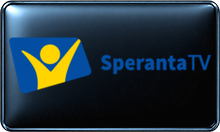
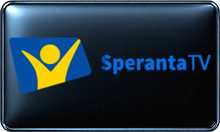
Repair six more BLACK/WHITE contrast variants

Changed region(s): [[0.4636, 0.3939, 0.9545, 0.5758]]

diff --git a/reports/black-white-qc-2026-10-09/batch-006/checkpoint.md b/reports/black-white-qc-2026-10-09/batch-006/checkpoint.md
@@ -1,0 +1,7 @@
+# BLACK/WHITE QC batch 006
+
+- Remote baseline: batch 005 commit `7e1071d443e231aeed28ed4f5903f8124938d471`.
+- Reviewed and repaired 6 variants: 2 BLACK and 4 WHITE (including both JOJ Cinema styles).
+- JOJ red emblem and SperantaTV blue/yellow emblem were excluded from local masks; text targets were isolated by color and location. Nova Fun includes all lower antialiased pixels, and Nova Krimi covers the full tan wordmark.
+- Every output was regenerated from a temporary source copy with the production renderer and pinned master. Checked-in transparent PNGs and templates remain unchanged.
+- See per-file SHA256 hashes and before/after comparison. Next: continue flagged candidates.
